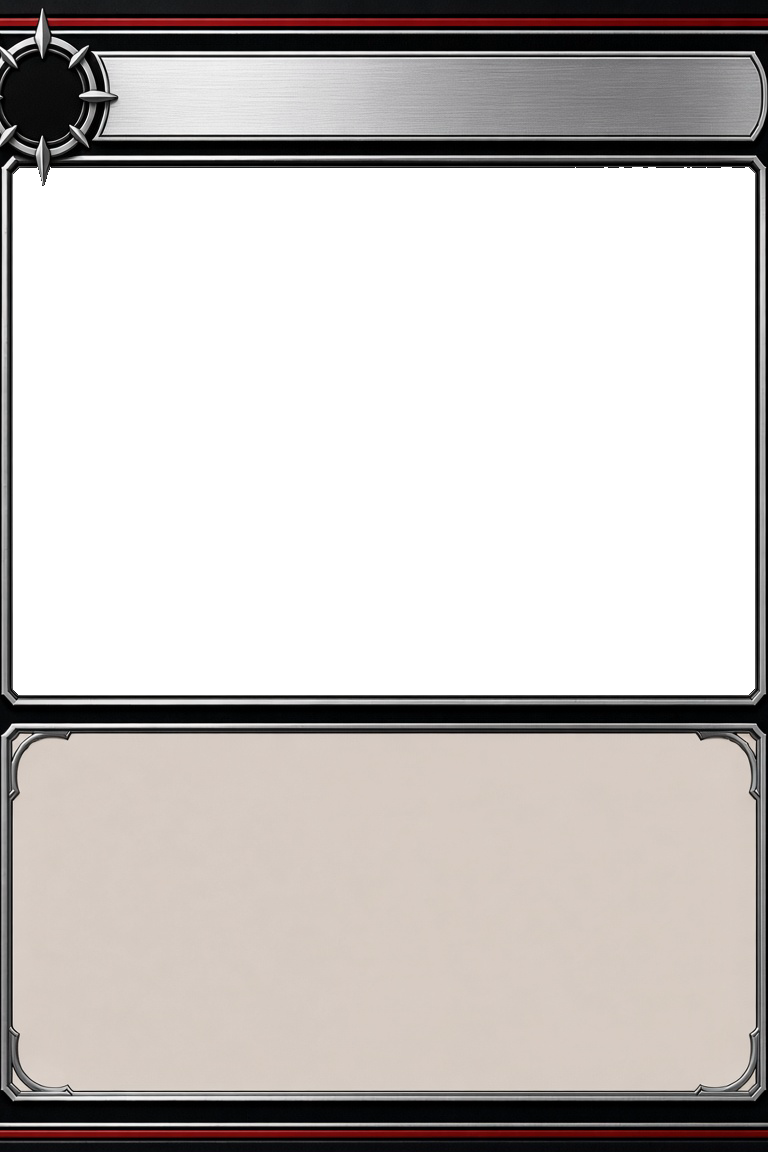
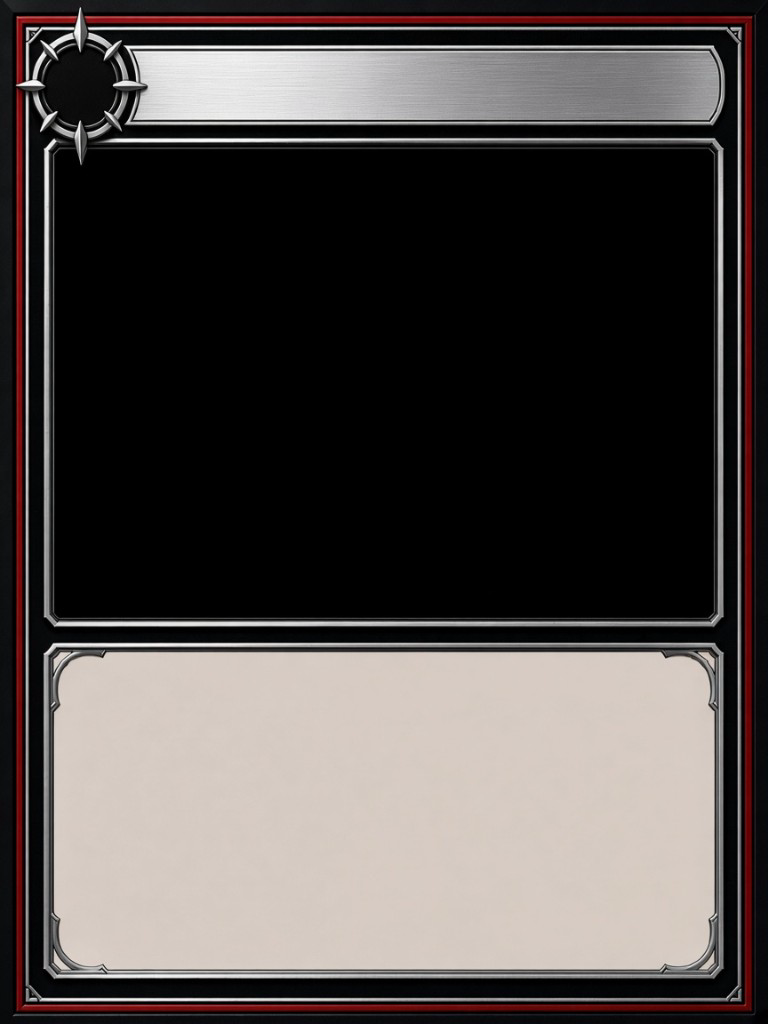
Adopt the new metal card frames and drop the front-face row.

diff --git a/index.html b/index.html
@@ -1409,7 +1409,7 @@
     /* カードスタイルの見本。★銅、★★銀、★★★金。ジャンルの札は枠に描かない */
     .blank-grid { grid-template-columns: repeat(auto-fill, minmax(170px, 1fr)); }
     .blank-grid .card.preview { width: 100%; height: auto; cursor: default; }
-    .blank-grid img.style-master { width: 100%; height: auto; aspect-ratio: 2 / 3; object-fit: contain; }
+    .blank-grid img.style-master { width: 100%; height: auto; aspect-ratio: 3 / 4; object-fit: fill; }
     .blank-grid .card.preview:hover { transform: none; }
     .card.blank .nameplate .name, .card.blank .text .note, .card.blank .cost, .card.blank .rarity { opacity: 0.4; }
     .card.blank .art { display: grid; place-items: center; }
@@ -3540,9 +3540,9 @@
       background: var(--frame-img) center / 100% 100% no-repeat;
     }
     .card .card-fit .frame::before, .card .card-fit .frame::after { content: none; }
-    .card .card-fit.r1 { --frame-img: url("frame-star1.png?v=4"); }
-    .card .card-fit.r2 { --frame-img: url("frame-star2.png?v=4"); }
-    .card .card-fit.r3 { --frame-img: url("frame-star3-attack.png?v=4"); }
+    .card .card-fit.r1 { --frame-img: url("frame-star1.png?v=5"); }
+    .card .card-fit.r2 { --frame-img: url("frame-star2.png?v=5"); }
+    .card .card-fit.r3 { --frame-img: url("frame-star3-attack.png?v=5"); }
     .card .card-fit.k-attack.rboss { --frame-img: url("frame-attack-boss.png?v=3"); }
     .card .card-fit.k-block.rboss { --frame-img: url("frame-block-boss.png?v=3"); }
     .card .card-fit.k-skill.rboss { --frame-img: url("frame-skill-boss.png?v=3"); }
@@ -3550,10 +3550,10 @@
     .card .card-fit.k-foe.rboss { --frame-img: url("frame-foe-boss.png?v=3"); }
     .card .card-fit .art {
       position: absolute;
-      left: 7.6cqw;
-      top: 21.2cqw;
-      width: 84.8cqw;
-      height: 66.5cqw;
+      left: 7.4cqw;
+      top: 22.6cqw;
+      width: 85cqw;
+      height: 68.6cqw;
       margin: 0;
       z-index: 1;
       border-radius: 0;
@@ -3593,11 +3593,11 @@
       pointer-events: none;
     }
     .card .card-fit .cost {
-      left: 7.4cqw;
-      top: 11.2cqw;
+      left: 10.9cqw;
+      top: 12.7cqw;
       transform: translate(-50%, -50%);
-      width: 7.3cqw;
-      height: 7.3cqw;
+      width: 8.2cqw;
+      height: 8.2cqw;
       border: 0;
       border-radius: 0;
       background: none;
@@ -3610,9 +3610,9 @@
       text-shadow: none;
     }
     .card .card-fit .nameplate .name {
-      left: 18cqw;
-      right: 7cqw;
-      top: 13cqw;
+      left: 17cqw;
+      right: 8cqw;
+      top: 10.4cqw;
       padding: 0;
       font-family: "Source Han Serif", "源ノ明朝", "Noto Serif JP", "Yu Mincho", serif;
       font-size: 6.6cqw;
@@ -3625,10 +3625,10 @@
     }
     .card .card-fit .text {
       position: absolute;
-      left: 12cqw;
-      top: 96cqw;
-      width: 76cqw;
-      height: 40cqw;
+      left: 10cqw;
+      top: 96.6cqw;
+      width: 80cqw;
+      height: 42cqw;
       margin: 0;
       z-index: 3;
       padding: 2cqw;
@@ -9793,10 +9793,6 @@
       const faces = sortedCards(shown).map((card) =>
         `<button type="button" class="card preview ${cardKind(card)} album-card${albumZoom === card.name ? " on" : ""}" data-art-zoom="${esc(card.name)}" aria-label="${esc(card.name)}のカードを拡大" aria-pressed="${albumZoom === card.name ? "true" : "false"}">${cardFace(card, false)}</button>`
       ).join("");
-      const surfaces = [1, 2, 3].map((stars) => catalog.find((card) => (card.stars || 1) === stars && card.klass !== "敵")).filter(Boolean);
-      const surfaceHtml = surfaces.map((card) =>
-        `<button type="button" class="card preview ${cardKind(card)} album-card${albumZoom === card.name ? " on" : ""}" data-art-zoom="${esc(card.name)}" aria-label="${esc(card.name)}の表面">${cardFace(card, false)}</button>`
-      ).join("");
       root.innerHTML = `
         <div class="album-screen album-split">
           <div class="panel">
@@ -9809,10 +9805,6 @@
               <section>
                 <h3>裏面</h3>
                 <div class="ref-grid">${albumFaceSheet()}</div>
-              </section>
-              <section>
-                <h3>表面</h3>
-                <div class="ref-grid blank-grid">${surfaceHtml}</div>
               </section>
             </div>
             <div class="album-tabs" role="tablist">${tabs}</div>
@@ -10078,9 +10070,13 @@
     }
 
     const CARD_STYLE = [
-      ["style-star1", "★ 銅", "frame-star1.png?v=4"],
-      ["style-star2", "★★ 銀", "frame-star2.png?v=4"],
-      ["style-star3", "★★★ 金", "frame-star3-attack.png?v=4"],
+      ["style-star1", "★ 銅", "frame-star1.png?v=5"],
+      ["style-star2", "★★ 銀", "frame-star2.png?v=5"],
+      ["style-star3", "★★★ 金", "frame-star3-attack.png?v=5"],
+      ["style-red", "赤", "frame-metal-red.png?v=1"],
+      ["style-blue", "青", "frame-metal-blue.png?v=1"],
+      ["style-green", "緑", "frame-metal-green.png?v=1"],
+      ["style-yellow", "黄", "frame-metal-yellow.png?v=1"],
     ];
     const ALBUM_FACE = [
       ["back-player", "裏面", "card-back.jpg?v=3"],
